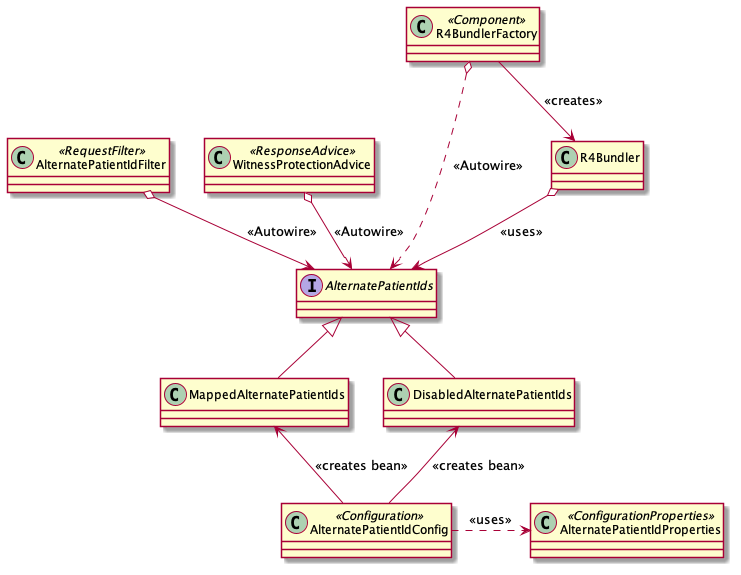
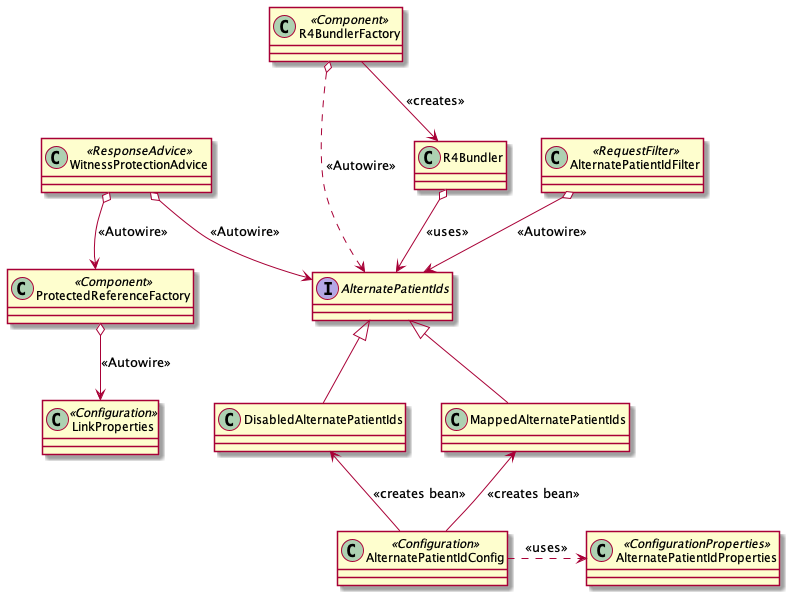
API 5404 reference links part 3 (#49)
* reference links are now fully supported as either local, or absolute references.

diff --git a/vista-fhir-query/src/main/java/gov/va/api/health/vistafhirquery/service/controller/witnessprotection/ProtectedReferenceFactory.java b/vista-fhir-query/src/main/java/gov/va/api/health/vistafhirquery/service/controller/witnessprotection/ProtectedReferenceFactory.java
@@ -4,22 +4,33 @@ import static org.apache.commons.lang3.StringUtils.isBlank;
 
 import gov.va.api.health.r4.api.elements.Reference;
 import gov.va.api.health.r4.api.resources.Resource;
+import gov.va.api.health.vistafhirquery.service.config.LinkProperties;
+import java.util.Arrays;
 import java.util.Optional;
 import java.util.function.Consumer;
+import java.util.function.Function;
+import lombok.AllArgsConstructor;
+import lombok.Builder;
+import lombok.Getter;
 import lombok.NonNull;
+import org.springframework.beans.factory.annotation.Autowired;
 import org.springframework.stereotype.Component;
 
 @Component
+@AllArgsConstructor(onConstructor_ = @Autowired)
 public class ProtectedReferenceFactory {
 
+  private final LinkProperties linkProperties;
+
   /**
-   * Create a new instance from an R4 reference if possible. See {@link #forUri(String, Consumer)}.
+   * Create a new instance from an R4 reference if possible. See {@link #forUri(String,
+   * Consumer,NewReferenceValueStrategy)}.
    */
   public Optional<ProtectedReference> forReference(Reference reference) {
     if (reference == null) {
       return Optional.empty();
     }
-    return forUri(reference.reference(), reference::reference);
+    return forUri(reference.reference(), reference::reference, replaceWithFullUrl());
   }
 
   /**
@@ -42,7 +53,8 @@ public class ProtectedReferenceFactory {
    *
    * <p>If the URI cannot be parsed into resource/id, then an empty reference is returned.
    */
-  public Optional<ProtectedReference> forUri(String uri, Consumer<String> onUpdate) {
+  public Optional<ProtectedReference> forUri(
+      String uri, Consumer<String> onUpdate, NewReferenceValueStrategy newValue) {
     if (isBlank(uri)) {
       return Optional.empty();
     }
@@ -61,10 +73,50 @@ public class ProtectedReferenceFactory {
             .id(id)
             .onUpdate(
                 s -> {
-                  parts[parts.length - 1] = s;
-                  String newUri = String.join("/", parts);
-                  onUpdate.accept(newUri);
+                  var update =
+                      ReferenceUpdate.builder()
+                          .uriParts(parts)
+                          .resourceType(resource)
+                          .oldResourceId(id)
+                          .newResourceId(s)
+                          .build();
+                  onUpdate.accept(newValue.apply(update));
                 })
             .build());
+  }
+
+  /**
+   * Return a strategy that will replace the ID only in the reference URI, leaving all other parts
+   * of the untouched. E.g., /whatever/Foo/1234 becomes /whatever/Foo/ABCD.
+   */
+  public NewReferenceValueStrategy replaceIdOnly() {
+    return update -> {
+      String[] parts = update.uriParts();
+      parts[parts.length - 1] = update.newResourceId();
+      return String.join("/", parts);
+    };
+  }
+
+  /**
+   * Return a strategy that will replace the entire reference value with the full URL using
+   * configured paging links. E.g., /whatever/Foo/1234 becomes
+   * https://awesome.com/services/fhir/v0/r4/Foo/ABCD.
+   */
+  public NewReferenceValueStrategy replaceWithFullUrl() {
+    return update -> linkProperties.r4().readUrl(update.resourceType(), update.newResourceId());
+  }
+
+  public interface NewReferenceValueStrategy extends Function<ReferenceUpdate, String> {}
+
+  @Builder
+  public static class ReferenceUpdate {
+    private final String[] uriParts;
+    @Getter private final String resourceType;
+    @Getter private final String oldResourceId;
+    @Getter private final String newResourceId;
+
+    public String[] uriParts() {
+      return Arrays.copyOf(uriParts, uriParts.length);
+    }
   }
 }

diff --git a/vista-fhir-query/src/test/java/gov/va/api/health/vistafhirquery/service/controller/witnessprotection/ProtectedReferenceFactoryTest.java b/vista-fhir-query/src/test/java/gov/va/api/health/vistafhirquery/service/controller/witnessprotection/ProtectedReferenceFactoryTest.java
@@ -5,13 +5,25 @@ import static org.assertj.core.api.Assertions.assertThat;
 import gov.va.api.health.r4.api.elements.Reference;
 import gov.va.api.health.r4.api.resources.Patient;
 import gov.va.api.health.r4.api.resources.Resource;
+import gov.va.api.health.vistafhirquery.service.config.LinkProperties;
 import java.util.Optional;
 import java.util.concurrent.atomic.AtomicReference;
+import lombok.Getter;
 import org.junit.jupiter.api.Test;
 import org.junit.jupiter.params.ParameterizedTest;
 import org.junit.jupiter.params.provider.ValueSource;
 
 class ProtectedReferenceFactoryTest {
+
+  @Getter
+  private final ProtectedReferenceFactory prf =
+      new ProtectedReferenceFactory(
+          LinkProperties.builder()
+              .publicUrl("http://awesome.com/fuego")
+              .publicR4BasePath("r4")
+              .defaultPageSize(99)
+              .maxPageSize(99)
+              .build());
 
   @Test
   void forReference() {
@@ -22,12 +34,11 @@ class ProtectedReferenceFactoryTest {
     assertThat(actual.get().type()).isEqualTo("Patient");
     assertThat(actual.get().id()).isEqualTo("p1");
     actual.get().onUpdate().accept("newton");
-    assertThat(ref.reference()).isEqualTo("Patient/newton");
+    assertThat(ref.reference()).isEqualTo("http://awesome.com/fuego/r4/Patient/newton");
   }
 
   @Test
   void forResource() {
-
     var updatedValue = new AtomicReference<String>("not-updated");
     Resource resource = Patient.builder().id("p1").build();
     ProtectedReference actual = prf().forResource(resource, updatedValue::set);
@@ -42,7 +53,8 @@ class ProtectedReferenceFactoryTest {
       strings = {"Patient/p1", "/foo/whatever/Patient/p1", "https://whatever.com/Patient/p1"})
   void forUrisThatAreUnderstoodReferenceForTypeAndIdAreReturned(String uri) {
     var updatedValue = new AtomicReference<String>("not-updated");
-    Optional<ProtectedReference> result = prf().forUri(uri, updatedValue::set);
+    Optional<ProtectedReference> result =
+        prf().forUri(uri, updatedValue::set, prf().replaceIdOnly());
     assertThat(result).isNotEmpty();
     assertThat(result.get().type()).isEqualTo("Patient");
     assertThat(result.get().id()).isEqualTo("p1");
@@ -53,10 +65,6 @@ class ProtectedReferenceFactoryTest {
   @ParameterizedTest
   @ValueSource(strings = {"", "Patient", "/Patient", "Patient/"})
   void forUrisThatCannotBeUnderstoodEmptyIsReturned(String uri) {
-    assertThat(prf().forUri(uri, s -> {})).isEmpty();
-  }
-
-  ProtectedReferenceFactory prf() {
-    return new ProtectedReferenceFactory();
+    assertThat(prf().forUri(uri, s -> {}, prf().replaceIdOnly())).isEmpty();
   }
 }

diff --git a/vista-fhir-query/src/test/java/gov/va/api/health/vistafhirquery/service/controller/witnessprotection/WitnessProtectionAdviceTest.java b/vista-fhir-query/src/test/java/gov/va/api/health/vistafhirquery/service/controller/witnessprotection/WitnessProtectionAdviceTest.java
@@ -11,6 +11,7 @@ import gov.va.api.health.r4.api.bundle.AbstractBundle;
 import gov.va.api.health.r4.api.bundle.AbstractEntry;
 import gov.va.api.health.r4.api.elements.Meta;
 import gov.va.api.health.r4.api.resources.Resource;
+import gov.va.api.health.vistafhirquery.service.config.LinkProperties;
 import java.util.List;
 import java.util.stream.Stream;
 import lombok.AllArgsConstructor;
@@ -65,6 +66,15 @@ class WitnessProtectionAdviceTest {
         .build();
   }
 
+  private LinkProperties linkProperties() {
+    return LinkProperties.builder()
+        .publicUrl("http://awesome.com/fuego")
+        .publicR4BasePath("r4")
+        .defaultPageSize(99)
+        .maxPageSize(99)
+        .build();
+  }
+
   private Registration registration(String resource, String baseId) {
     return Registration.builder()
         .uuid("public-" + baseId)
@@ -94,7 +104,7 @@ class WitnessProtectionAdviceTest {
 
   @Test
   void unknownResourceTypeIsNotModified() {
-    ProtectedReferenceFactory prf = new ProtectedReferenceFactory();
+    ProtectedReferenceFactory prf = new ProtectedReferenceFactory(linkProperties());
     var f1 = FugaziOne.builder().id("private-f1").build();
     var noF1 =
         WitnessProtectionAdvice.builder()
@@ -115,7 +125,7 @@ class WitnessProtectionAdviceTest {
   }
 
   private WitnessProtectionAdvice wp() {
-    ProtectedReferenceFactory prf = new ProtectedReferenceFactory();
+    ProtectedReferenceFactory prf = new ProtectedReferenceFactory(linkProperties());
     return WitnessProtectionAdvice.builder()
         .protectedReferenceFactory(prf)
         .alternatePatientIds(new AlternatePatientIds.DisabledAlternatePatientIds())

diff --git a/vista-fhir-query/src/main/java/gov/va/api/health/vistafhirquery/service/controller/witnessprotection/WitnessProtectionAdvice.java b/vista-fhir-query/src/main/java/gov/va/api/health/vistafhirquery/service/controller/witnessprotection/WitnessProtectionAdvice.java
@@ -105,7 +105,8 @@ public class WitnessProtectionAdvice extends IdentitySubstitution<ProtectedRefer
 
   private void protectEntry(AbstractEntry<?> entry) {
     Optional<ProtectedReference> referenceToFullUrl =
-        protectedReferenceFactory.forUri(entry.fullUrl(), entry::fullUrl);
+        protectedReferenceFactory.forUri(
+            entry.fullUrl(), entry::fullUrl, protectedReferenceFactory.replaceIdOnly());
     protectResource(
         entry.resource(),
         referenceToFullUrl.isEmpty() ? List.of() : List.of(referenceToFullUrl.get()));
